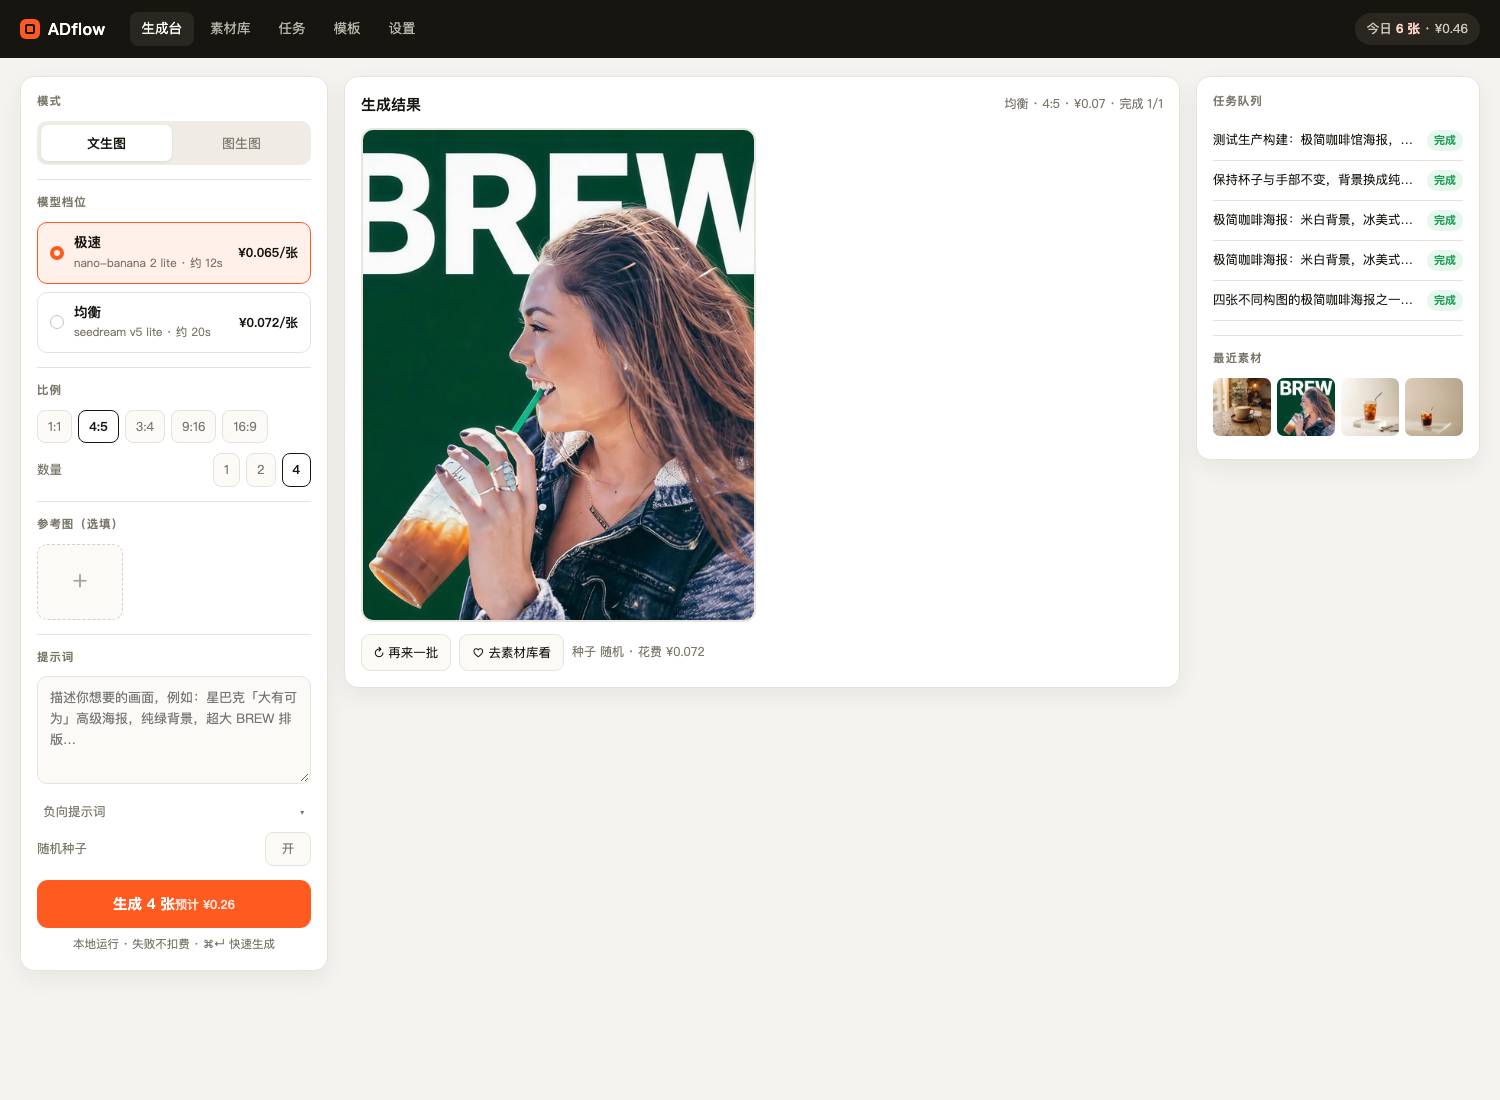
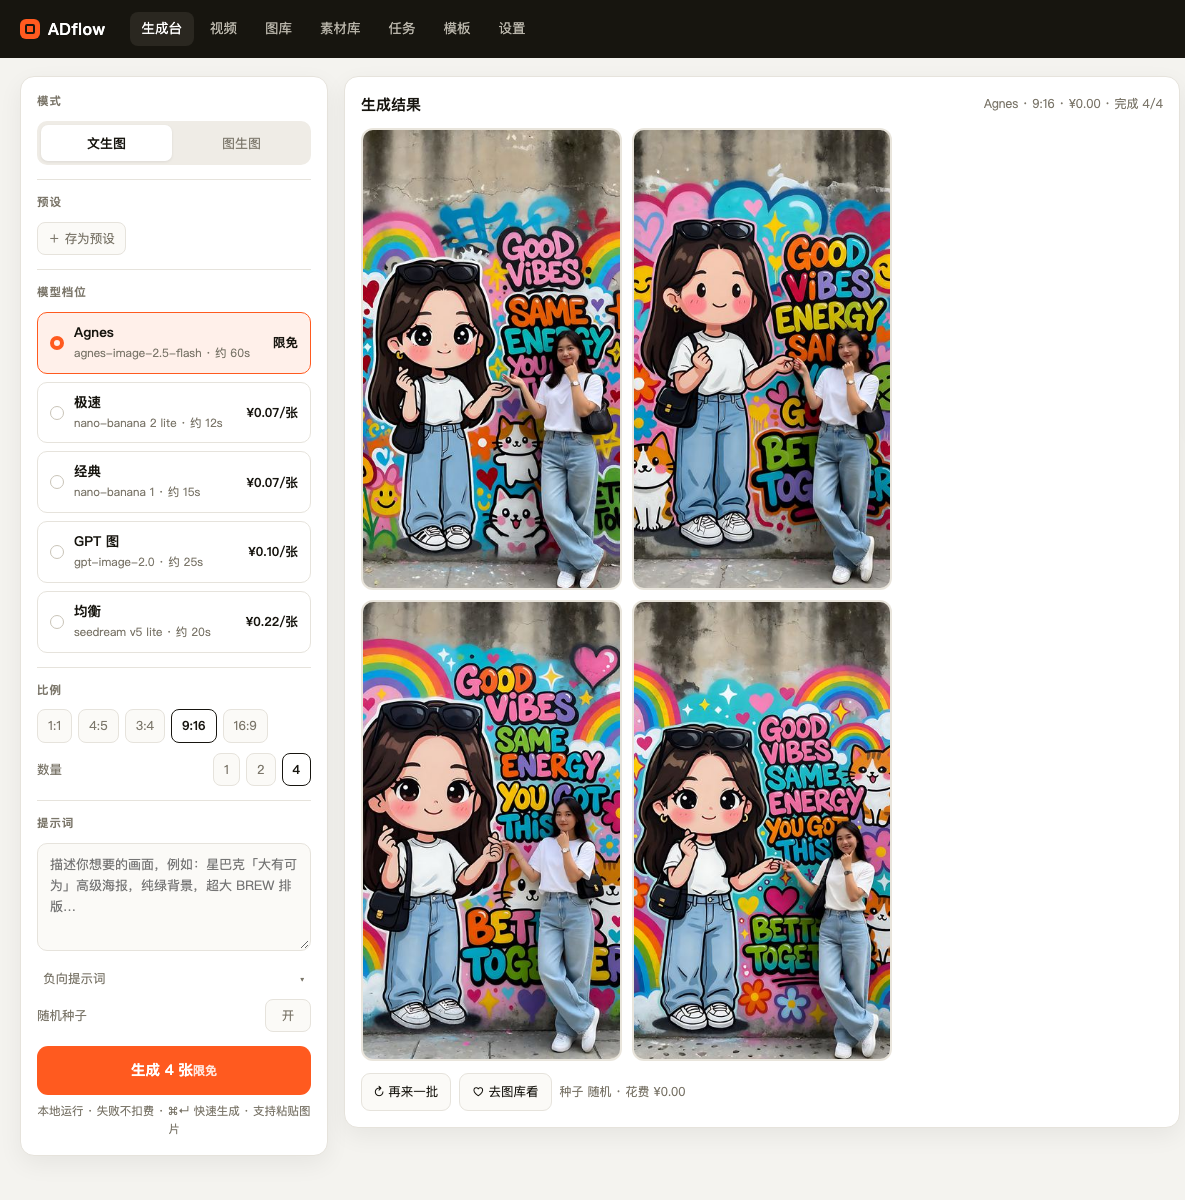
docs: refresh app screenshot with Agnes batch result

diff --git a/README.md b/README.md
@@ -2,9 +2,11 @@
 
 > 一个人的 AI 图片生产线：文生图 / 图生图 / 批量出图，本地跑，成本看得见。
 
-![生成台](docs/screens/app-create.png)
+![ADflow 生成台：Agnes 模型一次出 4 张 9:16](docs/screens/app-create.png)
 
-基于 RunningHub OpenAPI（nano-banana / seedream）封装，Next.js + SQLite，数据全在本机。
+<sub>生成台：Agnes 图像模型 · 9:16 · 一次 4 张</sub>
+
+基于 RunningHub / Agnes OpenAPI 封装，Next.js + SQLite，数据全在本机。
 
 ---
 
